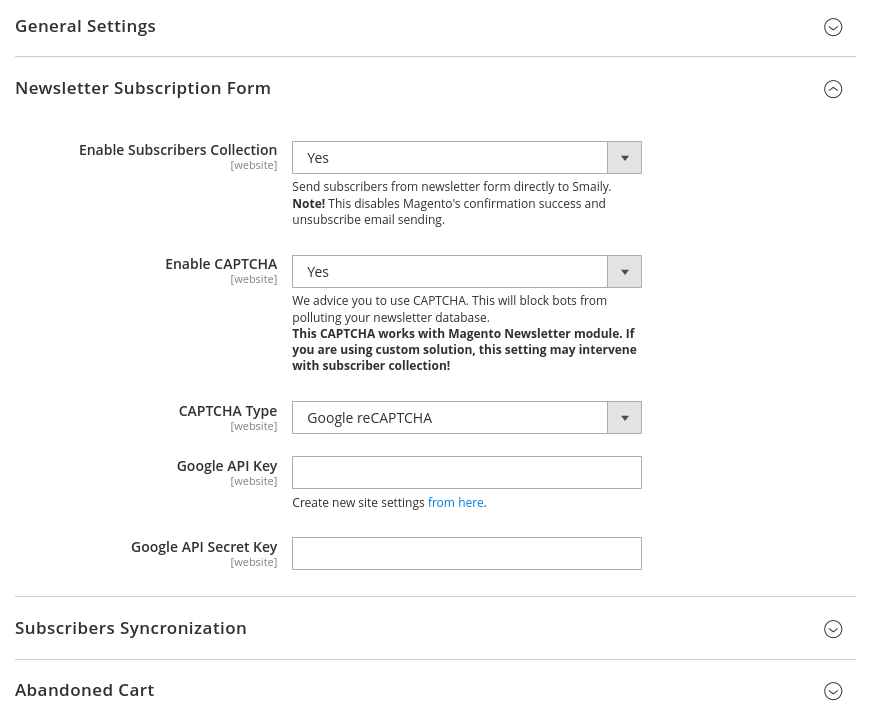
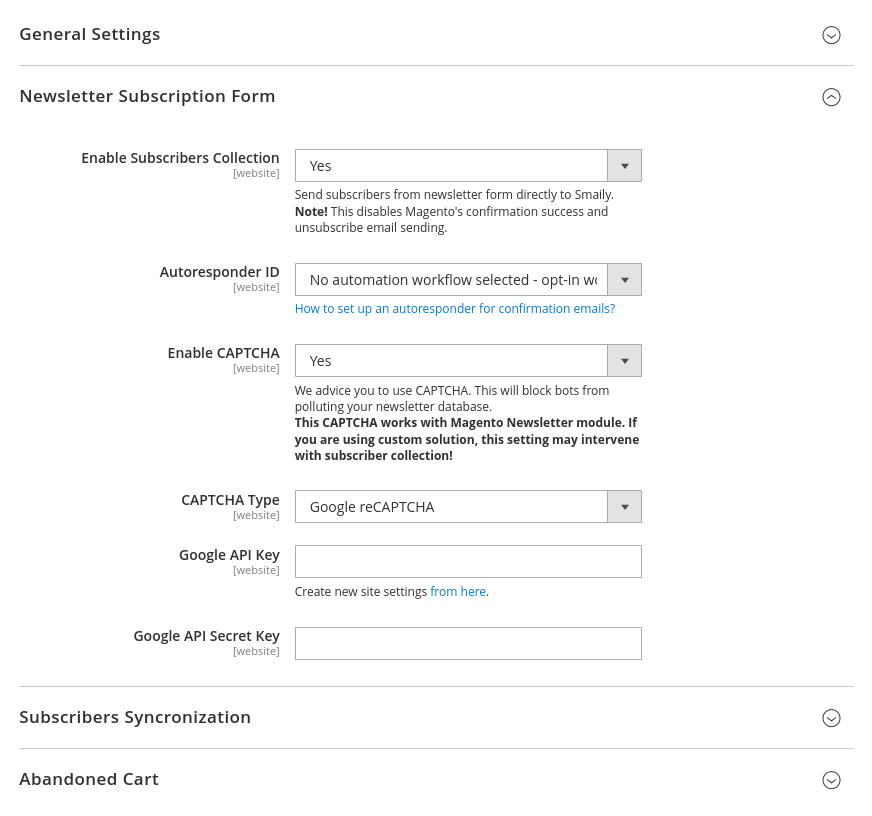
Release 2.2.0 checklist changes

diff --git a/CHANGELOG.md b/CHANGELOG.md
@@ -1,6 +1,12 @@
 # Changelog
 
 
+### 2.2.0
+
+- Include store group and website in opt-in form and synchronized data [[#67](https://github.com/sendsmaily/smaily-magento-extension/pull/67)]
+- Add automation workflow selection to Newsletter Subscriber settings [[#68](https://github.com/sendsmaily/smaily-magento-extension/pull/68)]
+
+
 ### 2.1.0
 
 - Magento 2.4 compatibility [[#63](https://github.com/sendsmaily/smaily-magento-extension/pull/63)]

diff --git a/README.md b/README.md
@@ -7,6 +7,7 @@ Automatically synchronize newsletter subscribers to a Smaily subscribers list, g
 ### Magento Newsletter Subscribers
 
 - Add subscribers to Smaily subscribers list;
+- Trigger all opt-in or a specific automation workflow;
 - Magento built in subscribe newsletter form sends subscribers directly to Smaily;
 - Magento built-in CAPTCHA and Google reCAPTCHA support.
 
